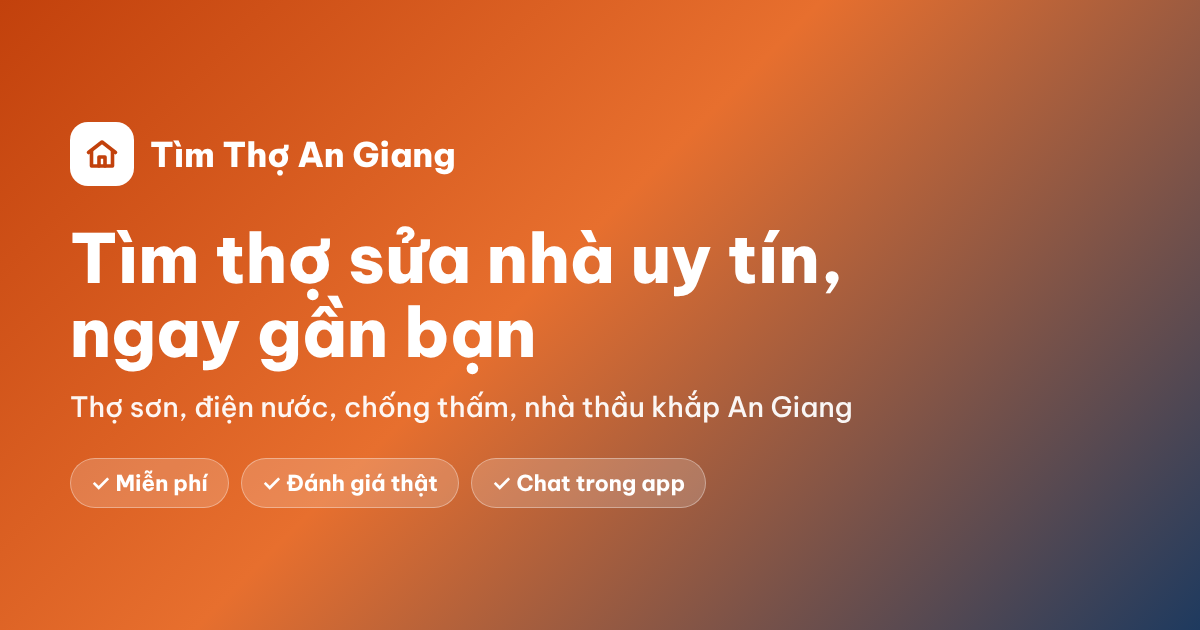
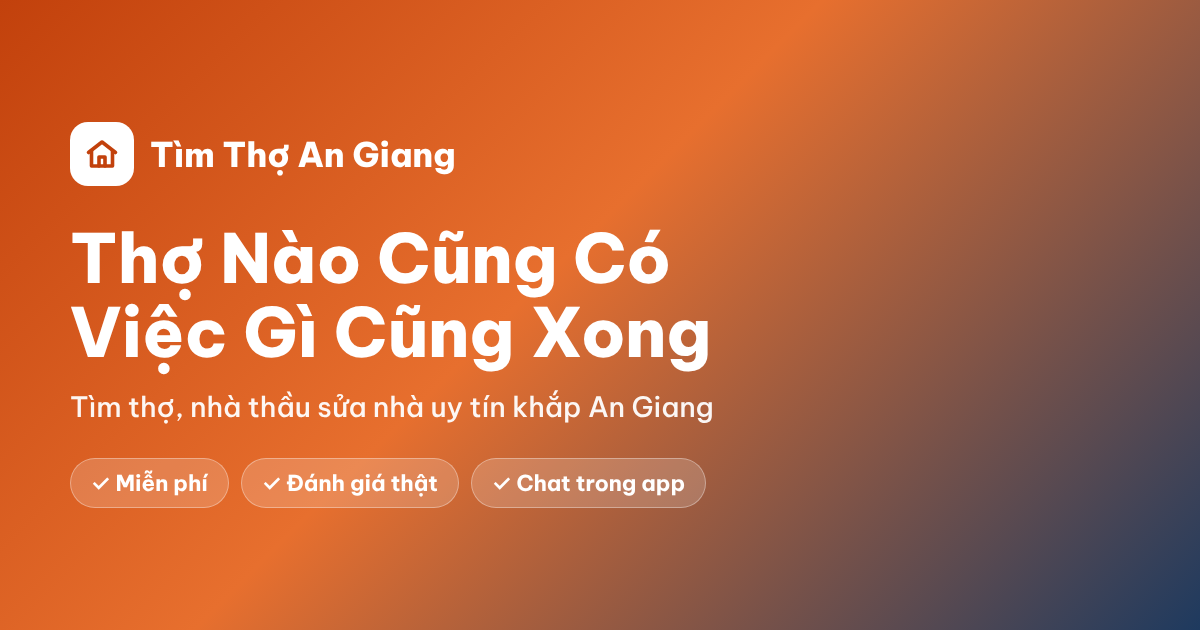
Trang chủ: slogan Thợ Nào Cũng Có - Việc Gì Cũng Xong, gọn hơn trên điện thoại
Claude-Session: https://claude.ai/code/session_01Ff7BLDArEsVdNyx4YwUXfF

Changed region(s): [[0.0617, 0.3619, 0.7092, 0.6032], [0.0617, 0.6333, 0.7092, 0.6635]]

diff --git a/index.html b/index.html
@@ -3,13 +3,13 @@
 <head>
 <meta charset="utf-8">
 <meta name="viewport" content="width=device-width,initial-scale=1">
-<title>Tìm Thợ An Giang – Tìm thợ, nhà thầu sửa nhà uy tín ở An Giang</title>
+<title>Tìm Thợ An Giang – Thợ Nào Cũng Có, Việc Gì Cũng Xong</title>
 <meta name="description" content="Tìm thợ sơn, điện nước, chống thấm, thợ hồ, nhà thầu xây sửa nhà uy tín khắp An Giang. Xem hồ sơ, công trình thật, đánh giá từ người đã thuê. Đăng việc miễn phí, nhận báo giá, chat ngay trong app.">
 <link rel="canonical" href="https://huynhchienlx.github.io/timtholongxuyen-web/">
 <meta name="theme-color" content="#C2410C">
 <meta property="og:type" content="website">
 <meta property="og:site_name" content="Tìm Thợ An Giang">
-<meta property="og:title" content="Tìm Thợ An Giang – Thợ, thầu sửa nhà uy tín gần bạn">
+<meta property="og:title" content="Tìm Thợ An Giang – Thợ Nào Cũng Có, Việc Gì Cũng Xong">
 <meta property="og:description" content="Tìm thợ sơn, điện nước, chống thấm, thợ hồ, nhà thầu xây sửa nhà uy tín khắp An Giang. Xem hồ sơ, công trình thật, đánh giá từ người đã thuê. Đăng việc miễn phí, nhận báo giá, chat ngay trong app.">
 <meta property="og:url" content="https://huynhchienlx.github.io/timtholongxuyen-web/">
 <meta property="og:image" content="https://huynhchienlx.github.io/timtholongxuyen-web/og-image.png">
@@ -31,13 +31,13 @@ a{color:var(--brick)}img{max-width:100%}
 .wrap{max-width:1120px;margin:0 auto;padding:0 20px}
 header.top{position:sticky;top:0;z-index:10;background:rgba(255,255,255,.92);backdrop-filter:blur(8px);border-bottom:1px solid var(--line)}
 .top .wrap{display:flex;align-items:center;gap:16px;height:64px}
-.brand{display:flex;align-items:center;gap:10px;font-weight:800;color:var(--ink);text-decoration:none;font-size:18px}
+.brand{display:flex;align-items:center;gap:10px;font-weight:800;color:var(--ink);text-decoration:none;font-size:18px;white-space:nowrap;min-width:0}
 .logo{width:36px;height:36px;border-radius:10px;background:var(--brick);display:grid;place-items:center;color:#fff}
 .top nav{margin-left:auto;display:flex;gap:22px;align-items:center}
 .top nav a{color:var(--muted);text-decoration:none;font-weight:500;font-size:15px}
 .top nav a:hover{color:var(--ink)}
 .top nav a.btn{color:#fff}
-.btn{display:inline-flex;align-items:center;justify-content:center;gap:10px;padding:14px 22px;border-radius:14px;font-weight:700;font-size:16px;text-decoration:none;border:0;cursor:pointer;transition:transform .15s,box-shadow .15s}
+.btn{white-space:nowrap;display:inline-flex;align-items:center;justify-content:center;gap:10px;padding:14px 22px;border-radius:14px;font-weight:700;font-size:16px;text-decoration:none;border:0;cursor:pointer;transition:transform .15s,box-shadow .15s}
 .btn:hover{transform:translateY(-1px)}
 .btn-p{background:var(--brick);color:#fff;box-shadow:0 8px 20px rgba(194,65,12,.28)}
 .btn-w{background:#fff;color:var(--navy);box-shadow:0 6px 18px rgba(0,0,0,.12)}
@@ -48,7 +48,8 @@ header.top{position:sticky;top:0;z-index:10;background:rgba(255,255,255,.92);bac
 .hero .wrap{display:grid;grid-template-columns:1.1fr .9fr;gap:40px;align-items:center;padding-top:64px;padding-bottom:64px}
 .pill{display:inline-flex;align-items:center;gap:8px;background:rgba(255,255,255,.16);border:1px solid rgba(255,255,255,.3);padding:6px 12px;border-radius:999px;font-size:13px;font-weight:600}
 .dot{width:8px;height:8px;border-radius:50%;background:#4ADE80;box-shadow:0 0 0 4px rgba(74,222,128,.25)}
-.hero h1{font-size:clamp(32px,5vw,54px);line-height:1.12;margin:18px 0 14px;font-weight:800;letter-spacing:-.5px}
+.h1b{color:#FFE2CC}
+.hero h1{font-size:clamp(26px,8.4vw,58px);line-height:1.12;margin:18px 0 14px;font-weight:800;letter-spacing:-.5px}
 .hero p.lead{font-size:18px;opacity:.93;max-width:560px;margin:0 0 28px}
 .cta{display:flex;gap:12px;flex-wrap:wrap}
 .facts{display:flex;gap:8px 22px;flex-wrap:wrap;margin-top:26px;font-size:14px;opacity:.95}
@@ -82,7 +83,7 @@ h2{font-size:clamp(26px,3.6vw,38px);line-height:1.2;margin:8px 0 12px;letter-spa
 .ic{width:44px;height:44px;flex:none;border-radius:12px;background:var(--brick-s);display:grid;place-items:center;font-size:22px}
 .ti b{display:block;font-size:15px}.ti span{color:var(--muted);font-size:13.5px}
 .steps{display:grid;grid-template-columns:repeat(3,1fr);gap:20px;margin-top:36px}
-.step{background:#fff;border:1px solid var(--line);border-radius:20px;padding:26px;position:relative}
+.step{background:#fff;border:1px solid var(--line);border-radius:20px;padding:22px;position:relative}
 .num{width:40px;height:40px;border-radius:12px;background:var(--brick);color:#fff;font-weight:800;display:grid;place-items:center;font-size:18px;margin-bottom:14px}
 .step h3{margin:0 0 6px;font-size:19px}.step p{margin:0;color:var(--muted)}
 .pros{background:var(--navy);color:#fff}
@@ -125,25 +126,49 @@ footer a{color:var(--muted)}
 }
 @media (max-width:560px){
  .wrap{padding:0 16px}
- section{padding:52px 0}
- .hero .wrap{padding-top:40px;padding-bottom:48px}
+ section{padding:40px 0}
+ .top .wrap{height:56px;gap:10px}
+ .brand{font-size:16px;gap:8px}.logo{width:32px;height:32px;border-radius:9px}
+ .btn-sm{padding:8px 12px;font-size:13px}
+ .hero .wrap{padding-top:24px;padding-bottom:36px;gap:28px}
+ .hero h1{margin:14px 0 10px}
+ .hero p.lead{font-size:16px;margin-bottom:20px}
+ .pill{font-size:12px}
+ .btn{padding:12px 16px;font-size:15px}
  .cta .btn{width:100%}
- .trust .wrap{grid-template-columns:1fr}
- .top nav{gap:12px}
+ .facts{font-size:13px;margin-top:18px}
+ .trust{padding:20px 0}.trust .wrap{grid-template-columns:1fr;gap:12px}
+ .ic{width:38px;height:38px;font-size:19px;border-radius:10px}
+ h2{margin:6px 0 8px}.sub{font-size:15.5px}
+ .steps{gap:12px;margin-top:22px}
+ .step{padding:16px 18px;border-radius:16px;display:grid;grid-template-columns:auto 1fr;column-gap:14px;align-items:start}
+ .num{width:34px;height:34px;font-size:16px;border-radius:10px;margin:2px 0 0;grid-row:span 2}
+ .step h3{font-size:17px;margin:0 0 2px}.step p{font-size:14.5px}
+ .bl{margin:18px 0 22px;gap:10px}.bl li{font-size:15px}
+ .plan{padding:14px 16px;border-radius:14px}.plan .p{float:none;display:block;font-size:14px;margin-top:2px}.plan b{font-size:16px}
+ .chip{font-size:13px;padding:6px 11px}
+ .cols{gap:22px;margin-top:20px}
+ .area{padding:18px;border-radius:16px}
+ .n{padding:10px 14px}.n b{font-size:22px}
+ .faq details{padding:14px 16px;border-radius:14px;margin-top:10px}.faq summary{font-size:15.5px}
+ .final{padding:34px 18px;border-radius:20px}
+ .phone{width:250px;padding:10px;border-radius:36px}.screen{height:500px;border-radius:28px}
 }
+@media (max-width:380px){.brand{font-size:15px}.btn-sm{padding:8px 10px}}
+@media (max-width:300px){.brand span.bt{display:none}}
 </style>
 </head>
 <body>
 <header class="top"><div class="wrap">
- <a class="brand" href="./"><span class="logo"><svg width="20" height="20" viewBox="0 0 24 24" fill="none" stroke="#fff" stroke-width="2.2" stroke-linecap="round" stroke-linejoin="round"><path d="M3 11l9-7 9 7"/><path d="M5 10v10h14V10"/><path d="M10 20v-6h4v6"/></svg></span>Tìm Thợ An Giang</a>
+ <a class="brand" href="./"><span class="logo"><svg width="20" height="20" viewBox="0 0 24 24" fill="none" stroke="#fff" stroke-width="2.2" stroke-linecap="round" stroke-linejoin="round"><path d="M3 11l9-7 9 7"/><path d="M5 10v10h14V10"/><path d="M10 20v-6h4v6"/></svg></span><span class="bt">Tìm Thợ An Giang</span></a>
  <nav><a class="hide-m" href="#cach-dung">Cách dùng</a><a class="hide-m" href="#tho-thau">Thợ &amp; thầu</a><a class="hide-m" href="#hoi-dap">Hỏi đáp</a><a class="btn btn-p btn-sm" href="app/">Dùng ngay</a></nav>
 </div></header>
 
 <main>
 <section class="hero"><div class="wrap">
  <div>
-  <span class="pill"><span class="dot"></span>Đang phục vụ toàn tỉnh An Giang</span>
-  <h1>Tìm thợ sửa nhà uy tín, ngay gần bạn</h1>
+  <span class="pill"><span class="dot"></span>Tìm thợ sửa nhà uy tín khắp An Giang</span>
+  <h1>Thợ Nào Cũng Có<br><span class="h1b">Việc Gì Cũng Xong</span></h1>
   <p class="lead">Thợ sơn, điện nước, chống thấm, thợ hồ, nhà thầu xây sửa nhà khắp An Giang. Xem hồ sơ và công trình thật, đọc đánh giá từ người đã thuê, rồi nhắn tin hoặc nhận báo giá ngay trong app.</p>
   <div class="cta">
    <a class="btn btn-w" href="tai-app/TimThoAnGiang.apk" download><svg width="22" height="22" viewBox="0 0 24 24" fill="#3DDC84"><path d="M17.6 9.48l1.84-3.18a.38.38 0 10-.66-.38l-1.86 3.22a11.5 11.5 0 00-9.84 0L5.22 5.92a.38.38 0 10-.66.38L6.4 9.48A10.8 10.8 0 001 18h22a10.8 10.8 0 00-5.4-8.52zM7 15.25a1.25 1.25 0 110-2.5 1.25 1.25 0 010 2.5zm10 0a1.25 1.25 0 110-2.5 1.25 1.25 0 010 2.5z"/></svg><span>Tải app Android<small>Miễn phí</small></span></a>
